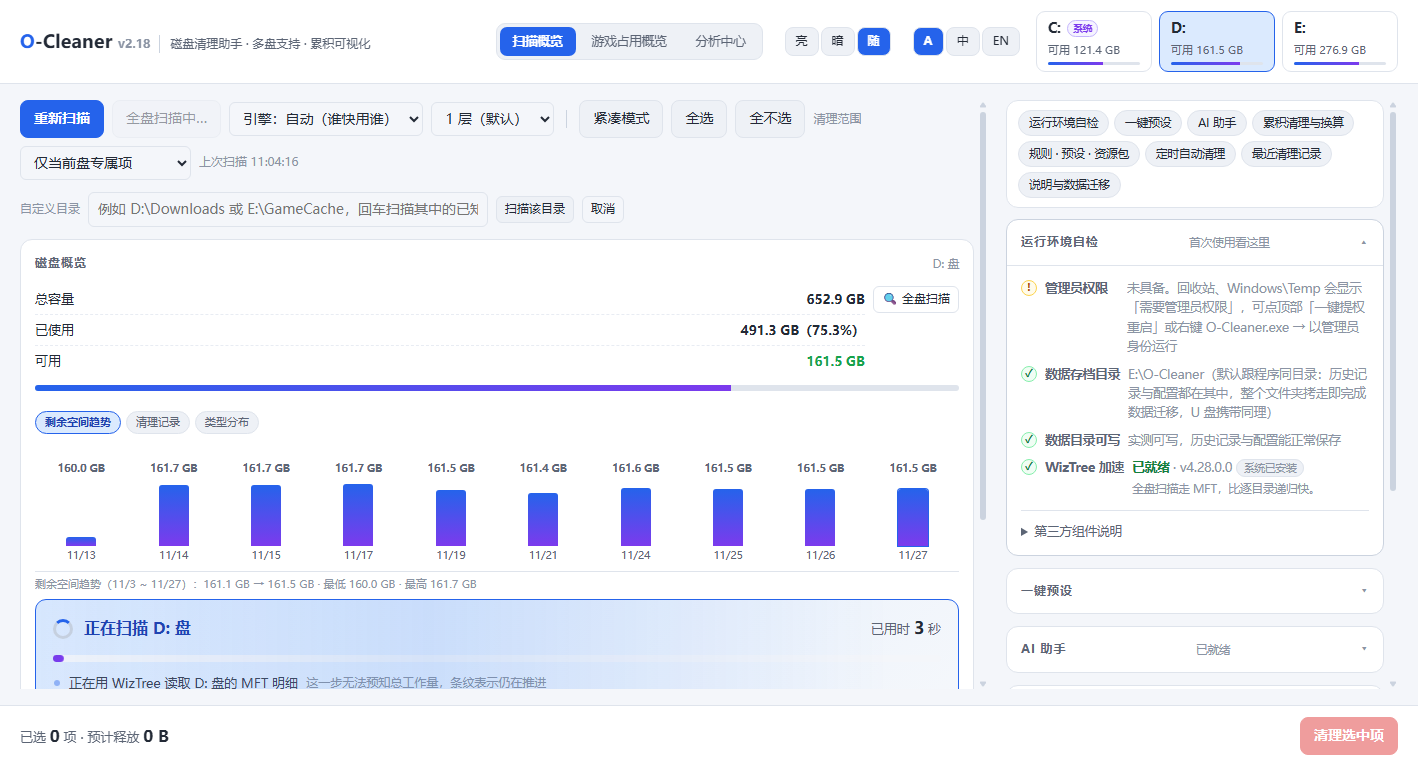
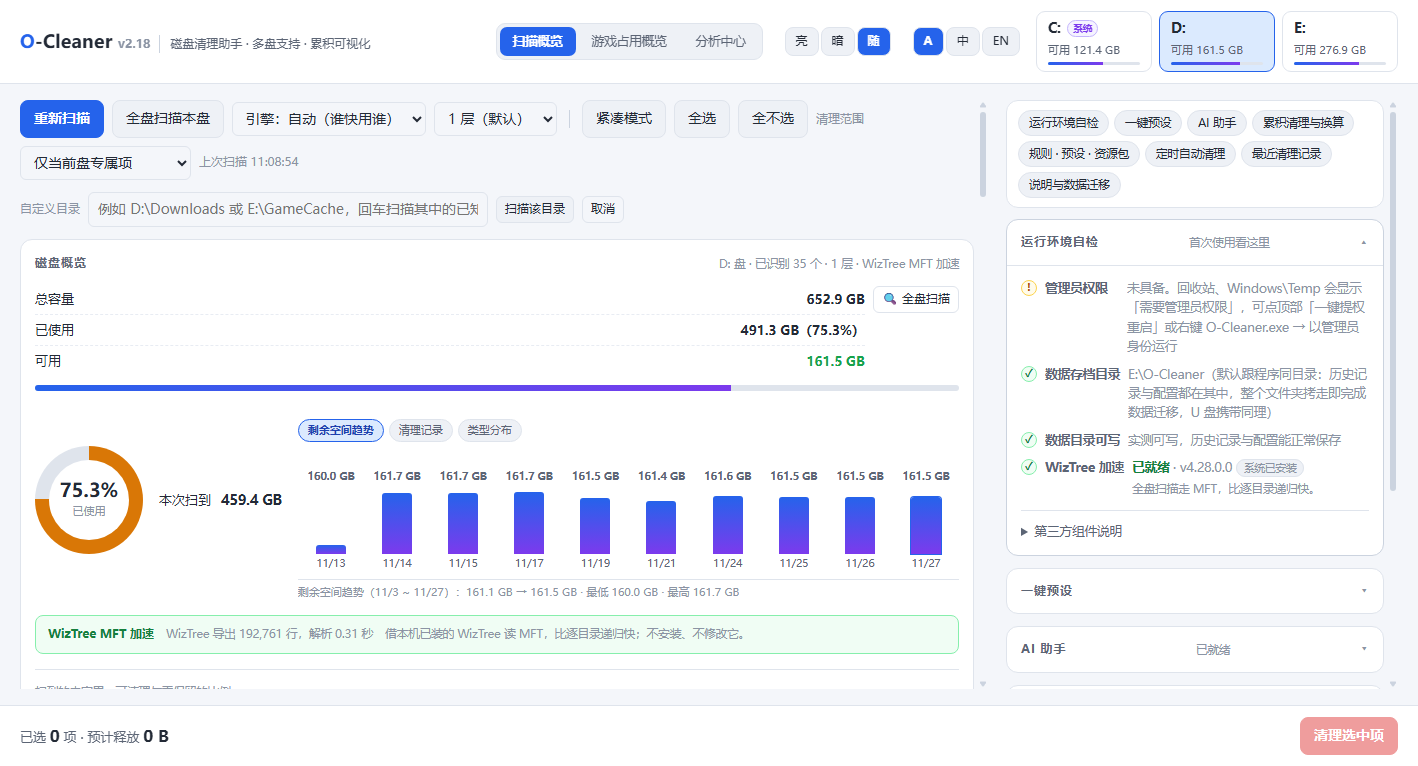
docs: add Issue/PR templates, CHANGELOG, standalone disclaimer, and clean UI screenshot

diff --git a/CHANGELOG.md b/CHANGELOG.md
@@ -1,0 +1,9 @@
+# 更新日志
+
+## v2.18
+
+- **MFT 原生加速（ABI v3）**：基于 C 原生动态库 `mft_fast.dll` 实现记录解析、扩展名哈希统计与目录树拓扑体积聚合，大幅降低百万级 NTFS 记录的扫描与聚合耗时，缺失 DLL 时自动回退纯 Python 路径。
+- **可视化数据迁移与整机备份**：在「说明与数据迁移」面板支持图形化迁移数据目录与整机 `.zip` 备份导出/还原（无需命令行参数）。
+- **规则、AI 预设与资源包整合**：侧栏合并为统一面板，新增内置/自定义 AI 提示词预设生成与固定格式 JSON 一键导入，支持「自定义归档分组」侧栏管理与 GitHub 社区一键上传规则。
+- **顽固占用与托盘自启**：支持将系统服务锁定的占用文件登记为重启时删除（`MoveFileExW`），并在「定时自动清理」提供开机自启并最小化到托盘开关。
+- **图表与界面优化**：修复剩余空间趋势图近 10 天缩放与类型分布 Top 12 截断问题，防止左列横向溢出；拆分 `web/index.html` 为 `index.html` / `styles.css` / `app.js` 零构建静态资源。

diff --git a/.github/PULL_REQUEST_TEMPLATE.md b/.github/PULL_REQUEST_TEMPLATE.md
@@ -1,0 +1,10 @@
+## 变更说明
+
+请简述本 PR 的改动内容与目的。
+
+## 自检清单
+
+- [ ] 已运行 `powershell -File tools/fix-encoding.ps1 -Check`
+- [ ] 已运行 `python tools/lint_rules.py --strict`（0 错误 0 警告）
+- [ ] 已运行 `python tools/guard_matrix.py` 与 `python tools/unit_test.py`
+- [ ] 若改动核心逻辑或前端结构，已运行 `python tools/selftest.py`
